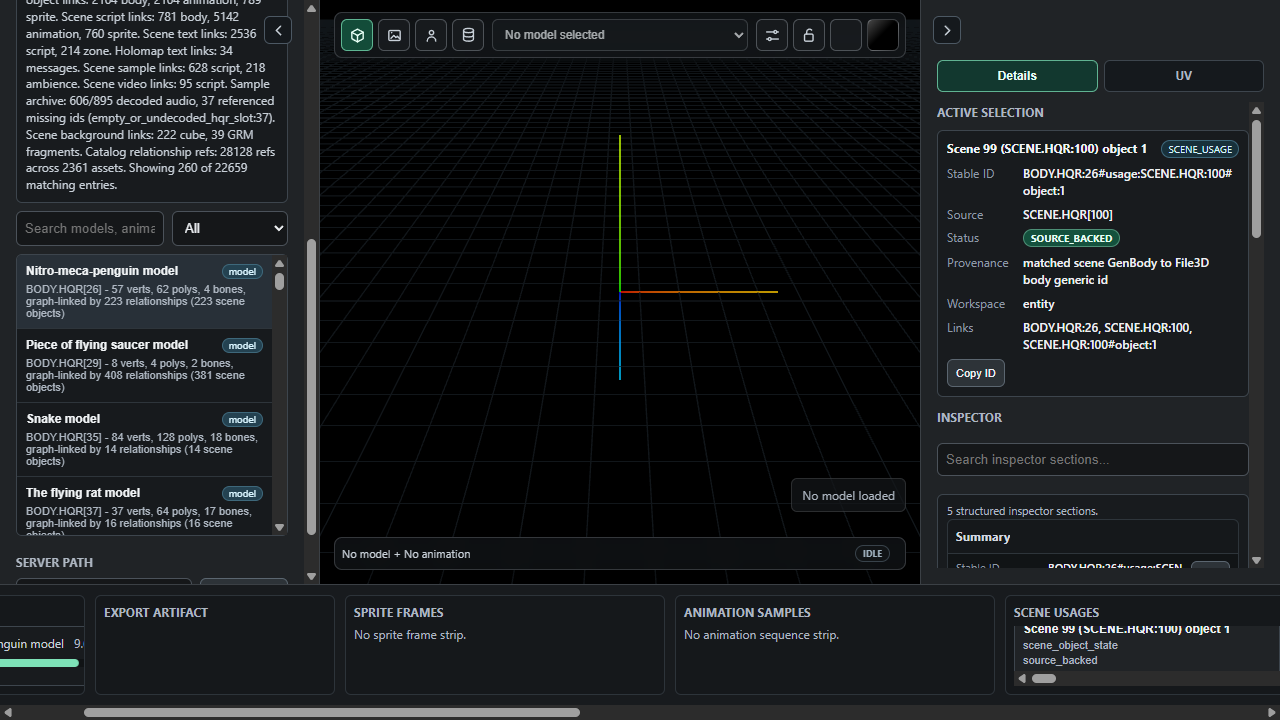
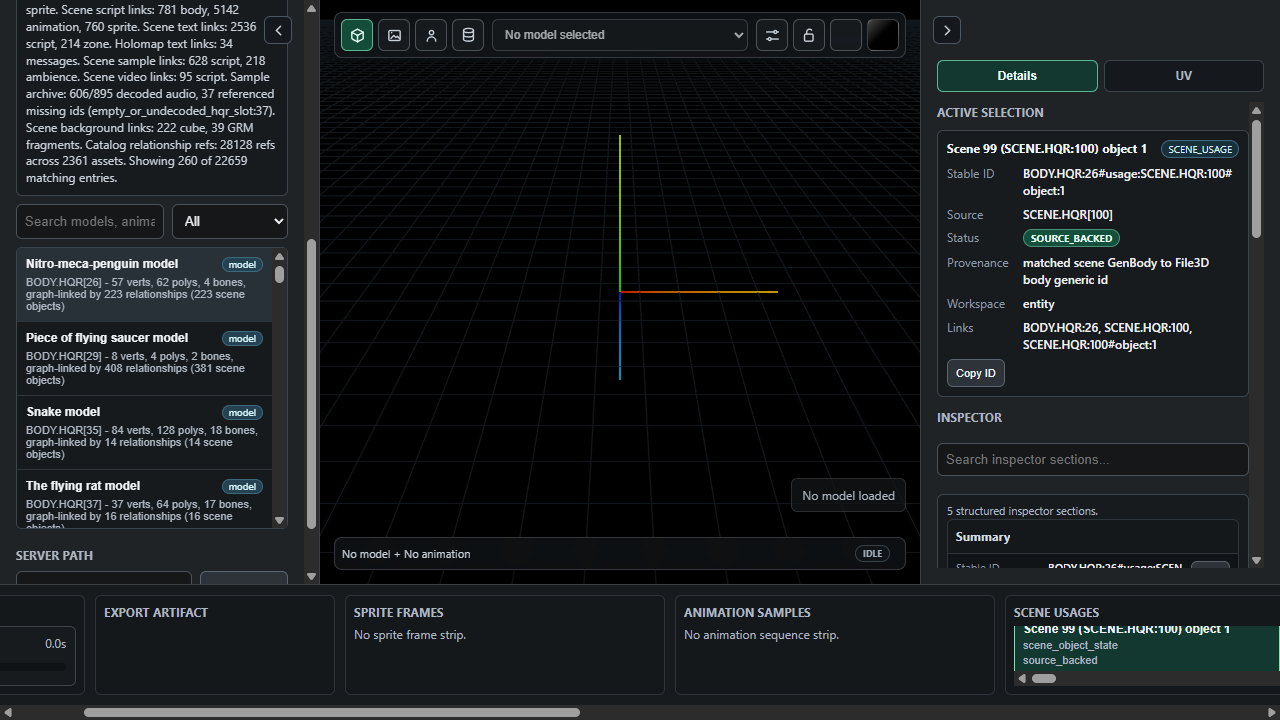
Mark graph usage strip selection active

Changed region(s): [[0.0, 0.0, 0.2188, 0.7944], [0.0, 0.8861, 0.0625, 0.9472]]

diff --git a/frontend/src/main.ts b/frontend/src/main.ts
@@ -778,6 +778,12 @@ function sceneUsageRecordForGraphLink(records: SceneAssetUsage[] | undefined, li
   )) || null;
 }
 
+function activeGraphUsageStableId(selection: AppSelection | null): string {
+  const usage = selection?.kind === 'scene_usage' ? selection.evidence?.sceneUsage : null;
+  if (!usage) return '';
+  return usage.graphLinkStableId || `${usage.scene_asset_id}#object:${usage.object_index}`;
+}
+
 function renderSceneUsageStrip(selection: AppSelection | null): void {
   const asset = assetForUsageStrip(selection);
   const graphSelection = asset ? currentCatalog?.graph?.selectionByAssetId?.[asset.id] : null;
@@ -786,7 +792,7 @@ function renderSceneUsageStrip(selection: AppSelection | null): void {
     .map((link) => ({ link, usage: sceneUsageRecordForGraphLink(graphSelection?.usageRecords, link) }))
     .filter((item): item is { link: GraphUsageLink; usage: SceneAssetUsage } => Boolean(item.usage));
   if (asset && graphUsageItems.length > 0) {
-    const activeUsageId = selection?.kind === 'scene_usage' ? selection.stableId : '';
+    const activeUsageId = activeGraphUsageStableId(selection);
     sceneUsageStrip.replaceChildren(...graphUsageItems.map(({ link, usage }) => {
       const button = document.createElement('button');
       button.type = 'button';

diff --git a/frontend/src/inspector.ts b/frontend/src/inspector.ts
@@ -2241,7 +2241,7 @@ export function sceneUsageInspectorSections(selection: AppSelection): InspectorS
       rows: [
         { label: 'Status', value: selection.evidenceStatus, status: selection.evidenceStatus },
         { label: 'Provenance', value: selection.provenance },
-        { label: 'Proof scope', value: 'reverse catalog usage evidence; not live runtime proof' },
+        { label: 'Proof scope', value: 'catalog graph usage record; not live runtime proof' },
       ],
       defaultOpen: true,
       searchText: '',

diff --git a/docs/validation-task-final-usage-strip-agent-browser-2026-05-10.md b/docs/validation-task-final-usage-strip-agent-browser-2026-05-10.md
@@ -3,8 +3,8 @@
 ## Context
 
 - Checkout: `C:\Users\sebam\.codex\worktrees\e82a\lba2-lm2-viewer`
-- URL: `http://127.0.0.1:8913/`
-- Server command: `uv run python -m lba2_lm2_viewer --host 127.0.0.1 --port 8913 --asset-root D:\repos\reverse\littlebigreversing\work\_innoextract_full\Speedrun\Windows\LBA2_cdrom\LBA2 --no-browser`
+- URL: `http://127.0.0.1:8914/`
+- Server command: `uv run python -m lba2_lm2_viewer --host 127.0.0.1 --port 8914 --asset-root D:\repos\reverse\littlebigreversing\work\_innoextract_full\Speedrun\Windows\LBA2_cdrom\LBA2 --no-browser`
 - Asset root: `D:\repos\reverse\littlebigreversing\work\_innoextract_full\Speedrun\Windows\LBA2_cdrom\LBA2`
 - Browser tool: Codex in-app `agent-browser`
 - Screenshot: `docs/validation-task-final-usage-strip-agent-browser-2026-05-10.png`
@@ -23,6 +23,7 @@
 - Inspector renders non-empty structured sections.
 - Scene usage details include target asset, scene asset, object index, File3D, GenBody/GenAnim/Sprite, and flags.
 - Graph Usage Evidence shows proof scope, evidence status, source rule, source field, and index rule from the catalog graph.
+- The clicked graph usage strip item is marked active with `aria-current="true"`.
 - The fail-closed missing-record message is not shown for this linked usage item.
 
 ## Observed State
@@ -40,6 +41,10 @@
   - Flags: `0x8847`
 - Graph Usage Evidence showed:
   `scene_object_state | source_backed | matched scene GenBody to File3D body generic id | SceneObject.links.body.asset_id / SceneAssetUsage.target_asset_id | File3D body generic id resolves to BODY.HQR catalog entry index.`
+- The clicked strip item had `aria-current="true"`.
+- The Evidence Status section described proof scope as
+  `catalog graph usage record; not live runtime proof`.
+- Stale wording `reverse catalog usage evidence` was absent.
 - `Graph usage links are missing usage records.` was absent.
 
 ## Selector Evidence
@@ -54,6 +59,9 @@ Inspector contains BODY.HQR:26
 Inspector contains SCENE.HQR:100
 Inspector contains Object index 1
 Inspector contains File3D
+Clicked graph usage strip item has aria-current true
+Inspector contains catalog graph usage record; not live runtime proof
+Inspector does not contain reverse catalog usage evidence
 Inspector does not contain Graph usage links are missing usage records.
 ```
 
